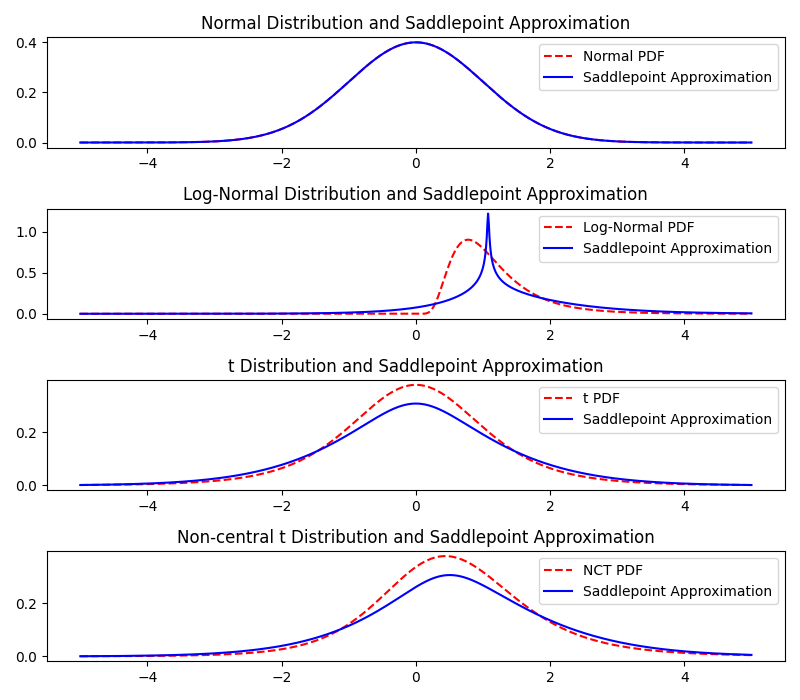
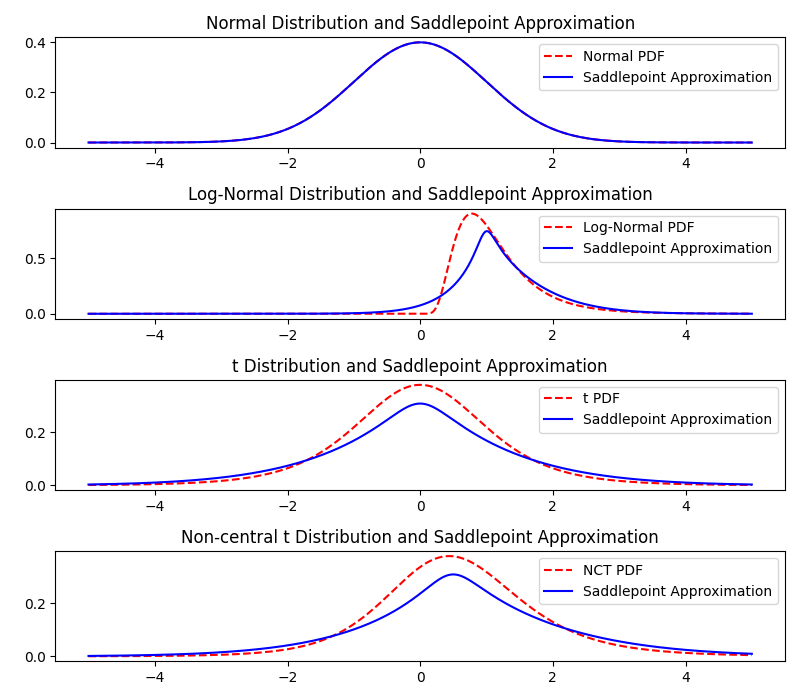
momente, kumulanten, kurtosis, excess kurtosis klar gemacht

diff --git a/python/gc_positivity_constraints.py b/python/gc_positivity_constraints.py
@@ -70,33 +70,33 @@ def hermite_polynomial(n, x):
         return x * hermite_polynomial(n-1, x) - (n-1) * hermite_polynomial(n-2, x)
 
 # Function to generate Gram-Charlier expansion
-def gram_charlier_expansion(x, mean, variance, skewness, kurtosis):
+def gram_charlier_expansion(x, mean, variance, skewness, excess_kurtosis):
     z = (x - mean) / np.sqrt(variance)
-    return norm.pdf(z) * (1 + skewness/6 * hermite_polynomial(3, z) + kurtosis/24 * hermite_polynomial(4, z))
+    return norm.pdf(z) * (1 + skewness/6 * hermite_polynomial(3, z) + excess_kurtosis/24 * hermite_polynomial(4, z))
 
 # Calculate skewness and kurtosis
-normal_mean, normal_var, normal_skew, normal_kurt = norm.stats(moments='mvsk')
-lognorm_mean, lognorm_var, lognorm_skew, lognorm_kurt = lognorm.stats(0.5, moments = 'mvsk')
-t_mean, t_var, t_skew, t_kurt = t.stats(5, moments = 'mvsk')
-nct_mean, nct_var, nct_skew, nct_kurt = nct.stats(5, 0.5, moments = 'mvsk')
+normal_mean, normal_var, normal_skew, normal_exkurt = norm.stats(moments='mvsk')
+lognorm_mean, lognorm_var, lognorm_skew, lognorm_exkurt = lognorm.stats(0.5, moments = 'mvsk')
+t_mean, t_var, t_skew, t_exkurt = t.stats(5, moments = 'mvsk')
+nct_mean, nct_var, nct_skew, nct_exkurt = nct.stats(5, 0.5, moments = 'mvsk')
 
-print(normal_skew, normal_kurt)
-print(lognorm_skew, lognorm_kurt)
-print(t_skew, t_kurt)
-print(nct_skew, nct_kurt)
+print(normal_skew, normal_exkurt)
+print(lognorm_skew, lognorm_exkurt)
+print(t_skew, t_exkurt)
+print(nct_skew, nct_exkurt)
 
-lognorm_skew, lognorm_kurt = transform_skew_kurt_into_positivity_region(lognorm_skew, lognorm_kurt, intersections)
-t_skew, t_kurt = transform_skew_kurt_into_positivity_region(t_skew, t_kurt, intersections)
-nct_skew, nct_kurt = transform_skew_kurt_into_positivity_region(nct_skew, nct_kurt, intersections)
-print(lognorm_skew, lognorm_kurt)
-print(t_skew, t_kurt)
-print(nct_skew, nct_kurt)
+lognorm_skew, lognorm_exkurt = transform_skew_kurt_into_positivity_region(lognorm_skew, lognorm_exkurt, intersections)
+t_skew, t_exkurt = transform_skew_kurt_into_positivity_region(t_skew, t_exkurt, intersections)
+nct_skew, nct_exkurt = transform_skew_kurt_into_positivity_region(nct_skew, nct_exkurt, intersections)
+print(lognorm_skew, lognorm_exkurt)
+print(t_skew, t_exkurt)
+print(nct_skew, nct_exkurt)
 
 # plot the positivity boundary
 plt.plot([x[0] for x in intersections], [x[1] for x in intersections], linestyle = 'None', marker = 'o', markersize = 2, color = 'r')
-plt.plot([lognorm_kurt], [lognorm_skew], linestyle = 'None', marker = 'o', markersize = 5, color = 'b')
-plt.plot([t_kurt], [t_skew], linestyle = 'None', marker = 'o', markersize = 5, color = 'g')
-plt.plot([nct_kurt], [nct_skew], linestyle = 'None', marker = 'o', markersize = 5, color = 'y')
+plt.plot([lognorm_exkurt], [lognorm_skew], linestyle = 'None', marker = 'o', markersize = 5, color = 'b')
+plt.plot([t_exkurt], [t_skew], linestyle = 'None', marker = 'o', markersize = 5, color = 'g')
+plt.plot([nct_exkurt], [nct_skew], linestyle = 'None', marker = 'o', markersize = 5, color = 'y')
 plt.title('Positivity Boundary of Gram-Charlier Density Function')
 plt.xlabel('Kurtosis')
 plt.ylabel('Skewness')
@@ -108,10 +108,10 @@ plt.show()
 x = np.linspace(-5, 5, 1000)
 
 # Apply Gram-Charlier expansion
-normal_expansion = gram_charlier_expansion(x, normal_mean, normal_var, normal_skew, normal_kurt)
-lognorm_expansion = gram_charlier_expansion(x, lognorm_mean, lognorm_var, lognorm_skew, lognorm_kurt)
-t_expansion = gram_charlier_expansion(x, t_mean, t_var, t_skew, t_kurt)
-nct_expansion = gram_charlier_expansion(x, nct_mean, nct_var, nct_skew, nct_kurt)
+normal_expansion = gram_charlier_expansion(x, normal_mean, normal_var, normal_skew, normal_exkurt)
+lognorm_expansion = gram_charlier_expansion(x, lognorm_mean, lognorm_var, lognorm_skew, lognorm_exkurt)
+t_expansion = gram_charlier_expansion(x, t_mean, t_var, t_skew, t_exkurt)
+nct_expansion = gram_charlier_expansion(x, nct_mean, nct_var, nct_skew, nct_exkurt)
 
 # Plotting
 plt.figure(figsize=(8, 7))

diff --git a/python/saddle_approximation.py b/python/saddle_approximation.py
@@ -2,6 +2,9 @@ import numpy as np
 import matplotlib.pyplot as plt
 from scipy.stats import norm, lognorm, t, nct
 
+def scipy_moments_to_cumulants(mean, variance, skewness, excess_kurtosis):
+    return mean, variance, skewness*variance**1.5, excess_kurtosis*variance**2
+
 def cgf(x, mean, variance, skewness, kurtosis):
     return mean*x + 0.5*variance*x**2 + skewness*x**3/6 + kurtosis*x**4/24
 
@@ -37,24 +40,24 @@ def saddlepoint_approximation(x, mean, variance, skewness, kurtosis):
     return 1/np.sqrt(2*np.pi*second_derivative_cgf(s, mean, variance, skewness, kurtosis)) * np.exp(cgf(s, mean, variance, skewness, kurtosis) - s*x)
 
 # Calculate skewness and kurtosis
-normal_mean, normal_var, normal_skew, normal_kurt = norm.stats(moments='mvsk')
-lognorm_mean, lognorm_var, lognorm_skew, lognorm_kurt = lognorm.stats(0.5, moments = 'mvsk')
-t_mean, t_var, t_skew, t_kurt = t.stats(5, moments = 'mvsk')
-nct_mean, nct_var, nct_skew, nct_kurt = nct.stats(5, 0.5, moments = 'mvsk')
+normal_mean, normal_var, normal_skew, normal_exkurt = norm.stats(moments='mvsk')
+lognorm_mean, lognorm_var, lognorm_skew, lognorm_exkurt = lognorm.stats(0.5, moments = 'mvsk')
+t_mean, t_var, t_skew, t_exkurt = t.stats(5, moments = 'mvsk')
+nct_mean, nct_var, nct_skew, nct_exkurt = nct.stats(5, 0.5, moments = 'mvsk')
 
-print(normal_skew, normal_kurt)
-print(lognorm_skew, lognorm_kurt)
-print(t_skew, t_kurt)
-print(nct_skew, nct_kurt)
+print(normal_skew, normal_exkurt)
+print(lognorm_skew, lognorm_exkurt)
+print(t_skew, t_exkurt)
+print(nct_skew, nct_exkurt)
 
 # Define x range for plotting
 x = np.linspace(-5, 5, 1000)
 
 # Apply Saddlepoint Approximation
-normal_approximation = saddlepoint_approximation(x, normal_mean, normal_var, normal_skew, normal_kurt)
-lognorm_approximation = saddlepoint_approximation(x, lognorm_mean, lognorm_var, lognorm_skew, lognorm_kurt)
-t_approximation = saddlepoint_approximation(x, t_mean, t_var, t_skew, t_kurt)
-nct_approximation = saddlepoint_approximation(x, nct_mean, nct_var, nct_skew, nct_kurt)
+normal_approximation = saddlepoint_approximation(x, *scipy_moments_to_cumulants(normal_mean, normal_var, normal_skew, normal_exkurt))
+lognorm_approximation = saddlepoint_approximation(x, *scipy_moments_to_cumulants(lognorm_mean, lognorm_var, lognorm_skew, lognorm_exkurt))
+t_approximation = saddlepoint_approximation(x, *scipy_moments_to_cumulants(t_mean, t_var, t_skew, t_exkurt))
+nct_approximation = saddlepoint_approximation(x, *scipy_moments_to_cumulants(nct_mean, nct_var, nct_skew, nct_exkurt))
 
 # Plotting
 plt.figure(figsize=(8, 7))

diff --git a/python/gc_expansion.py b/python/gc_expansion.py
@@ -19,29 +19,29 @@ def hermite_polynomial(n, x):
 # plt.show()
 
 # Function to generate Gram-Charlier expansion
-def gram_charlier_expansion(x, mean, variance, skewness, kurtosis):
+def gram_charlier_expansion(x, mean, variance, skewness, excess_kurtosis):
     z = (x - mean) / np.sqrt(variance)
-    return norm.pdf(z) * (1 + skewness/6 * hermite_polynomial(3, z) + kurtosis/24 * hermite_polynomial(4, z))
+    return norm.pdf(z) * (1 + skewness/6 * hermite_polynomial(3, z) + excess_kurtosis/24 * hermite_polynomial(4, z))
 
 # Calculate skewness and kurtosis
-normal_mean, normal_var, normal_skew, normal_kurt = norm.stats(moments='mvsk')
-lognorm_mean, lognorm_var, lognorm_skew, lognorm_kurt = lognorm.stats(0.5, moments = 'mvsk')
-t_mean, t_var, t_skew, t_kurt = t.stats(5, moments = 'mvsk')
-nct_mean, nct_var, nct_skew, nct_kurt = nct.stats(5, 0.5, moments = 'mvsk')
+normal_mean, normal_var, normal_skew, normal_exkurt = norm.stats(moments='mvsk')
+lognorm_mean, lognorm_var, lognorm_skew, lognorm_exkurt = lognorm.stats(0.5, moments = 'mvsk')
+t_mean, t_var, t_skew, t_exkurt = t.stats(5, moments = 'mvsk')
+nct_mean, nct_var, nct_skew, nct_exkurt = nct.stats(5, 0.5, moments = 'mvsk')
 
-print(normal_skew, normal_kurt)
-print(lognorm_skew, lognorm_kurt)
-print(t_skew, t_kurt)
-print(nct_skew, nct_kurt)
+print(normal_skew, normal_exkurt)
+print(lognorm_skew, lognorm_exkurt)
+print(t_skew, t_exkurt)
+print(nct_skew, nct_exkurt)
 
 # Define x range for plotting
 x = np.linspace(-5, 5, 1000)
 
 # Apply Gram-Charlier expansion
-normal_expansion = gram_charlier_expansion(x, normal_mean, normal_var, normal_skew, normal_kurt)
-lognorm_expansion = gram_charlier_expansion(x, lognorm_mean, lognorm_var, lognorm_skew, lognorm_kurt)
-t_expansion = gram_charlier_expansion(x, t_mean, t_var, t_skew, t_kurt)
-nct_expansion = gram_charlier_expansion(x, nct_mean, nct_var, nct_skew, nct_kurt)
+normal_expansion = gram_charlier_expansion(x, normal_mean, normal_var, normal_skew, normal_exkurt)
+lognorm_expansion = gram_charlier_expansion(x, lognorm_mean, lognorm_var, lognorm_skew, lognorm_exkurt)
+t_expansion = gram_charlier_expansion(x, t_mean, t_var, t_skew, t_exkurt)
+nct_expansion = gram_charlier_expansion(x, nct_mean, nct_var, nct_skew, nct_exkurt)
 
 # Plotting
 plt.figure(figsize=(8, 7))

diff --git a/python/edgeworth_expansion.py b/python/edgeworth_expansion.py
@@ -24,24 +24,24 @@ def edgeworth_expansion(x, mean, variance, skewness, kurtosis):
     return norm.pdf(z) * (1 + skewness/6 * hermite_polynomial(3, z) + kurtosis/24 * hermite_polynomial(4, z) + skewness**2/72 * hermite_polynomial(6, z))
 
 # Calculate skewness and kurtosis
-normal_mean, normal_var, normal_skew, normal_kurt = norm.stats(moments='mvsk')
-lognorm_mean, lognorm_var, lognorm_skew, lognorm_kurt = lognorm.stats(0.5, moments = 'mvsk')
-t_mean, t_var, t_skew, t_kurt = t.stats(5, moments = 'mvsk')
-nct_mean, nct_var, nct_skew, nct_kurt = nct.stats(5, 0.5, moments = 'mvsk')
+normal_mean, normal_var, normal_skew, normal_exkurt = norm.stats(moments='mvsk')
+lognorm_mean, lognorm_var, lognorm_skew, lognorm_exkurt = lognorm.stats(0.5, moments = 'mvsk')
+t_mean, t_var, t_skew, t_exkurt = t.stats(5, moments = 'mvsk')
+nct_mean, nct_var, nct_skew, nct_exkurt = nct.stats(5, 0.5, moments = 'mvsk')
 
-print(normal_skew, normal_kurt)
-print(lognorm_skew, lognorm_kurt)
-print(t_skew, t_kurt)
-print(nct_skew, nct_kurt)
+print(normal_skew, normal_exkurt)
+print(lognorm_skew, lognorm_exkurt)
+print(t_skew, t_exkurt)
+print(nct_skew, nct_exkurt)
 
 # Define x range for plotting
 x = np.linspace(-5, 5, 1000)
 
 # Apply Edgeworth expansion
-normal_expansion = edgeworth_expansion(x, normal_mean, normal_var, normal_skew, normal_kurt)
-lognorm_expansion = edgeworth_expansion(x, lognorm_mean, lognorm_var, lognorm_skew, lognorm_kurt)
-t_expansion = edgeworth_expansion(x, t_mean, t_var, t_skew, t_kurt)
-nct_expansion = edgeworth_expansion(x, nct_mean, nct_var, nct_skew, nct_kurt)
+normal_expansion = edgeworth_expansion(x, normal_mean, normal_var, normal_skew, normal_exkurt)
+lognorm_expansion = edgeworth_expansion(x, lognorm_mean, lognorm_var, lognorm_skew, lognorm_exkurt)
+t_expansion = edgeworth_expansion(x, t_mean, t_var, t_skew, t_exkurt)
+nct_expansion = edgeworth_expansion(x, nct_mean, nct_var, nct_skew, nct_exkurt)
 
 # Plotting
 plt.figure(figsize=(8, 7))

diff --git a/python/cornish-fisher-expansion.py b/python/cornish-fisher-expansion.py
@@ -30,24 +30,24 @@ def cornish_fisher_expansion(x, mean, var, skew, kurt):
 # print(cornish_fisher_expansion(0.5, 0.5, 2))
 
 # Calculate skewness and kurtosis
-normal_mean, normal_var, normal_skew, normal_kurt = norm.stats(moments='mvsk')
-lognorm_mean, lognorm_var, lognorm_skew, lognorm_kurt = lognorm.stats(0.5, moments = 'mvsk')
-t_mean, t_var, t_skew, t_kurt = t.stats(5, moments = 'mvsk')
-nct_mean, nct_var, nct_skew, nct_kurt = nct.stats(5, 0.5, moments = 'mvsk')
+normal_mean, normal_var, normal_skew, normal_exkurt = norm.stats(moments='mvsk')
+lognorm_mean, lognorm_var, lognorm_skew, lognorm_exkurt = lognorm.stats(0.5, moments = 'mvsk')
+t_mean, t_var, t_skew, t_exkurt = t.stats(5, moments = 'mvsk')
+nct_mean, nct_var, nct_skew, nct_exkurt = nct.stats(5, 0.5, moments = 'mvsk')
 
-print(normal_skew, normal_kurt)
-print(lognorm_skew, lognorm_kurt)
-print(t_skew, t_kurt)
-print(nct_skew, nct_kurt)
+print(normal_skew, normal_exkurt)
+print(lognorm_skew, lognorm_exkurt)
+print(t_skew, t_exkurt)
+print(nct_skew, nct_exkurt)
 
 # Define x range for plotting
 x = np.linspace(-5, 5, 1000)
 
-# Apply Gram-Charlier expansion
-normal_expansion = cornish_fisher_expansion(x, normal_mean, normal_var, normal_skew, normal_kurt)
-lognorm_expansion = cornish_fisher_expansion(x, lognorm_mean, lognorm_var,lognorm_skew, lognorm_kurt)
-t_expansion = cornish_fisher_expansion(x, t_mean, t_var, t_skew, t_kurt)
-nct_expansion = cornish_fisher_expansion(x, nct_mean, nct_var, nct_skew, nct_kurt)
+# Apply Cornish-Fisher expansion
+normal_expansion = cornish_fisher_expansion(x, normal_mean, normal_var, normal_skew, normal_exkurt)
+lognorm_expansion = cornish_fisher_expansion(x, lognorm_mean, lognorm_var,lognorm_skew, lognorm_exkurt)
+t_expansion = cornish_fisher_expansion(x, t_mean, t_var, t_skew, t_exkurt)
+nct_expansion = cornish_fisher_expansion(x, nct_mean, nct_var, nct_skew, nct_exkurt)
 
 # Plotting
 plt.figure(figsize=(8, 7))

diff --git a/moments, central moments, cumulants.md b/moments, central moments, cumulants.md
@@ -1,0 +1,25 @@
+# Moments, Central Moments and Cumulants
+
+The $r$-th moment $\mu_r'$ of a random variable $X$ is defined as $\mathbb{E}(X^r)$.
+
+The $r$-th central moment $\mu_r$ of a random variable $X$ is defined as $\mathbb{E}((X-\mu)^r)$, where $\mu$ is the mean of $X$.
+
+The $r$-th cumulant $\kappa_r$ of a random variable $X$ is defined as the coefficient of $t^r$ in the logarithm of the moment generating function of $X$. The moment generating function of $X$ is defined as $M_X(t) = \mathbb{E}(\exp(tX))$. The cumulant generating function of $X$ is defined as $K_X(t) = \log(M_X(t))$.
+
+Mean $\mu$ is the first moment. $$\mu = \mathbb{E}(X) = \kappa_1$$
+
+Variance $\sigma^2$ is the second central moment. $$\sigma^2 = \mathbb{E}[(X-\mu)^2] = \kappa_2$$
+
+Skewness $\gamma_1$ is the standardized third central moment. $$\gamma_1 = \frac{\mathbb{E}[(X-\mu)^3]}{\sigma^3} = \frac{\kappa_3}{\kappa_2^{3/2}}$$
+
+Kurtosis $\gamma_2$ is the standardized fourth central moment. $$\gamma_2 = \frac{\mathbb{E}[(X-\mu)^4]}{\sigma^4} = \frac{\kappa_4}{\kappa_2^2} - 3$$
+
+Excess kurtosis $\gamma_2^*$ is the kurtosis minus 3. $$\gamma_2^* = \gamma_2 - 3 = \frac{\kappa_4}{\kappa_2^2}$$
+
+From $\mu$, $\sigma^2$, $\gamma_1$ and $\gamma_2^*$, we can calculate $\kappa_1$, $\kappa_2$, $\kappa_3$ and $\kappa_4$.
+$$\begin{align}
+\kappa_1 &= \mu \\
+\kappa_2 &= \sigma^2 \\
+\kappa_3 &= \gamma_1\cdot\left(\sigma^2\right)^{3/2} \\
+\kappa_4 &= \gamma_2^*\cdot\left(\sigma^2\right)^2
+\end{align}$$
